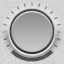
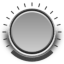
Now display bg with alpha

diff --git a/src/dsandgrains/ui.c b/src/dsandgrains/ui.c
@@ -1,0 +1,84 @@
+/*
+ * Copyright 2019 Denis Salem
+ *
+ * This file is part of DStudio.
+ *
+ * DStudio is free software: you can redistribute it and/or modify
+ * it under the terms of the GNU General Public License as published by
+ * the Free Software Foundation, either version 3 of the License, or
+ * (at your option) any later version.
+ *
+ * DStudio is distributed in the hope that it will be useful,
+ * but WITHOUT ANY WARRANTY; without even the implied warranty of
+ * MERCHANTABILITY or FITNESS FOR A PARTICULAR PURPOSE.  See the
+ * GNU General Public License for more details.
+ *
+ * You should have received a copy of the GNU General Public License
+ * along with DStudio. If not, see <http://www.gnu.org/licenses/>.
+*/
+
+#include "../extensions.h"
+#include "ui.h"
+
+void init_background(Background * background) {
+    GLuint * vertex_indexes = background->vertex_indexes;
+    DSTUDIO_SET_VERTEX_INDEXES
+        
+    VertexAttributes * vertexes_attributes = background->vertexes_attributes;
+    vertexes_attributes[0].x = -1.0f;
+    vertexes_attributes[0].y =  1.0f;
+    vertexes_attributes[1].x = -1.0f;
+    vertexes_attributes[1].y = -1.0f;
+    vertexes_attributes[2].x =  1.0f;
+    vertexes_attributes[2].y =  1.0f;
+    vertexes_attributes[3].x =  1.0f;
+    vertexes_attributes[3].y = -1.0f;
+    
+    DSTUDIO_SET_S_T_COORDINATES
+    
+    background->index_buffer_object = 0;
+    glGenBuffers(1, &background->index_buffer_object);
+    glBindBuffer(GL_ELEMENT_ARRAY_BUFFER, background->index_buffer_object);
+        glBufferData(GL_ELEMENT_ARRAY_BUFFER, 4 * sizeof(GLuint), vertex_indexes, GL_STATIC_DRAW);
+    glBindBuffer(GL_ELEMENT_ARRAY_BUFFER, 0);
+   
+    GLuint * vertex_buffer_object_p = &background->vertex_buffer_object;
+    glGenBuffers(1, vertex_buffer_object_p);
+    glBindBuffer(GL_ARRAY_BUFFER, *vertex_buffer_object_p);
+        glBufferData(GL_ARRAY_BUFFER, sizeof(VertexAttributes) * 4, vertexes_attributes, GL_STATIC_DRAW);
+    glBindBuffer(GL_ARRAY_BUFFER, 0);
+    
+    get_png_pixel("../assets/dsandgrains_background.png", &background->texture);
+    
+    glGenTextures(1, &background->texture_id);
+    glBindTexture(GL_TEXTURE_2D, background->texture_id);
+        glTexParameteri(GL_TEXTURE_2D, GL_TEXTURE_WRAP_S, GL_CLAMP_TO_EDGE);
+        glTexParameteri(GL_TEXTURE_2D, GL_TEXTURE_WRAP_T, GL_CLAMP_TO_EDGE);
+        glTexImage2D(GL_TEXTURE_2D, 0, GL_RGBA, DSANDGRAINS_VIEWPORT_WIDTH, DSANDGRAINS_VIEWPORT_HEIGHT, 0, GL_RGBA, GL_UNSIGNED_BYTE, background->texture);
+        glGenerateMipmap(GL_TEXTURE_2D);
+    glBindTexture(GL_TEXTURE_2D, 0);
+
+
+    glGenVertexArrays(1, &background->vertex_array_object);
+    glBindVertexArray(background->vertex_array_object);
+        glBindBuffer(GL_ARRAY_BUFFER, background->vertex_buffer_object);         
+            glVertexAttribPointer(0, 2, GL_FLOAT, GL_FALSE, 4 * sizeof(GLfloat), 0);
+            glEnableVertexAttribArray(0);
+            glVertexAttribPointer(1, 2, GL_FLOAT, GL_FALSE, 4 * sizeof(GLfloat), (GLvoid *)(2 * sizeof(GLfloat)));
+            glEnableVertexAttribArray(1);
+        glBindBuffer(GL_ARRAY_BUFFER, 0);
+    glBindVertexArray(0);
+}
+
+void render_background(Background * background, GLint program_id) {
+    glClear(GL_COLOR_BUFFER_BIT | GL_DEPTH_BUFFER_BIT);
+    glUseProgram(program_id);
+        glBindTexture(GL_TEXTURE_2D, background->texture_id);
+            glBindVertexArray(background->vertex_array_object);
+                glBindBuffer(GL_ELEMENT_ARRAY_BUFFER, background->index_buffer_object);
+                    glDrawElements(GL_TRIANGLE_STRIP, 4, GL_UNSIGNED_INT, (GLvoid *) 0);
+                glBindBuffer(GL_ELEMENT_ARRAY_BUFFER, 0);
+            glBindVertexArray(0);
+        glBindTexture(GL_TEXTURE_2D, 0);
+    glUseProgram(0);
+}

diff --git a/src/knobs.c b/src/knobs.c
@@ -34,10 +34,7 @@ void init_knobs(Knobs * knobs, int count, GLuint texture_width, GLuint texture_h
     knobs->image_base[3] = 255;
     
     GLuint * vertex_indexes = knobs->vertex_indexes;
-    vertex_indexes[0] = 0;
-    vertex_indexes[1] = 1;
-    vertex_indexes[2] = 2;
-    vertex_indexes[3] = 3;
+    DSTUDIO_SET_VERTEX_INDEXES
 }
 
 void free_knobs(Knobs * knobs) {
@@ -50,29 +47,19 @@ void init_knob(Knobs * knobs, int index, float width, float height, float x, flo
     VertexAttributes * vertexes_attributes = knobs->items[index].vertexes_attributes;
     GLuint * vertex_buffer_object_p = &knobs->items[index].vertex_buffer_object;
     
-    vertexes_attributes[0].x =  - (width / 640);
-    vertexes_attributes[0].y =  (height / 480);
+    vertexes_attributes[0].x =  - (width / 480);
+    vertexes_attributes[0].y =  (height / 240);
 
-    vertexes_attributes[1].x =  -(width  / 640);
-    vertexes_attributes[1].y =  -(height / 480);
+    vertexes_attributes[1].x =  -(width  / 480);
+    vertexes_attributes[1].y =  -(height / 240);
     
-    vertexes_attributes[2].x =  (width / 640);
-    vertexes_attributes[2].y =  (height/ 480);
+    vertexes_attributes[2].x =  (width / 480);
+    vertexes_attributes[2].y =  (height/ 240);
     
-    vertexes_attributes[3].x =  (width / 640);
-    vertexes_attributes[3].y = -(height/ 480); 
+    vertexes_attributes[3].x =  (width / 480);
+    vertexes_attributes[3].y = -(height/ 240); 
     
-    vertexes_attributes[0].s = 0.0f;
-    vertexes_attributes[0].t = 0.0f;
-    
-    vertexes_attributes[1].s = 0.0f;
-    vertexes_attributes[1].t = 1.0f;
-    
-    vertexes_attributes[2].s = 1.0f;
-    vertexes_attributes[2].t = 0.0f;
-    
-    vertexes_attributes[3].s = 1.0f;
-    vertexes_attributes[3].t = 1.0f;
+    DSTUDIO_SET_S_T_COORDINATES
     
     glGenBuffers(1, vertex_buffer_object_p);
     glBindBuffer(GL_ARRAY_BUFFER, *vertex_buffer_object_p);

diff --git a/src/main.c b/src/main.c
@@ -7,6 +7,7 @@
 
 #include "knobs.h"
 #include "ui.h"
+#include "dsandgrains/ui.h"
 
 int main() {
     if (!glfwInit()) {
@@ -17,7 +18,7 @@ int main() {
     glfwWindowHint(GLFW_CONTEXT_VERSION_MINOR, 3);
     glfwWindowHint(GLFW_OPENGL_PROFILE, GLFW_OPENGL_CORE_PROFILE);
     
-    GLFWwindow* window = glfwCreateWindow(640, 480, "Knob PoC", NULL, NULL);
+    GLFWwindow* window = glfwCreateWindow(480, 240, "Knob PoC", NULL, NULL);
     
     if (!window) {
             printf("!window\n");
@@ -35,6 +36,9 @@ int main() {
 
     GLchar * shader_buffer = NULL;
 
+    Background background;
+    init_background(&background);
+    
     Knobs test_knobs;
     init_knobs(&test_knobs, 1, 64, 64, "../assets/knob1_base.png", "../assets/knob1.png");
 
@@ -102,11 +106,16 @@ int main() {
         printf("%s\n", program_error_message);
     }
     #endif
-
+    
+    glBlendFunc(GL_SRC_ALPHA, GL_ONE_MINUS_SRC_ALPHA);
+    glEnable( GL_BLEND );
     while (!glfwWindowShouldClose(window)) {
         usleep(40000);
         
         glClear(GL_COLOR_BUFFER_BIT | GL_DEPTH_BUFFER_BIT);
+        
+        render_background(&background, program_id);
+        
         glUseProgram(program_id);
             glBindTexture(GL_TEXTURE_2D, test_knobs.texture_image_base_id);
                 glBindVertexArray(vertex_array_object);
@@ -116,12 +125,12 @@ int main() {
                 glBindVertexArray(0);
             glBindTexture(GL_TEXTURE_2D, 0);
         glUseProgram(0);
-
+        
         glfwSwapBuffers(window);
         glfwPollEvents();
     }
     
     glfwTerminate();
-    free_knobs(&test_knobs);
+    //free_knobs(&test_knobs);
     return 0;
 }

diff --git a/src/dsandgrains/ui.h b/src/dsandgrains/ui.h
@@ -1,0 +1,36 @@
+/*
+ * Copyright 2019 Denis Salem
+ *
+ * This file is part of DStudio.
+ *
+ * DStudio is free software: you can redistribute it and/or modify
+ * it under the terms of the GNU General Public License as published by
+ * the Free Software Foundation, either version 3 of the License, or
+ * (at your option) any later version.
+ *
+ * DStudio is distributed in the hope that it will be useful,
+ * but WITHOUT ANY WARRANTY; without even the implied warranty of
+ * MERCHANTABILITY or FITNESS FOR A PARTICULAR PURPOSE.  See the
+ * GNU General Public License for more details.
+ *
+ * You should have received a copy of the GNU General Public License
+ * along with DStudio. If not, see <http://www.gnu.org/licenses/>.
+*/
+
+#define DSANDGRAINS_VIEWPORT_WIDTH  480
+#define DSANDGRAINS_VIEWPORT_HEIGHT 240
+
+#include "../ui.h"
+
+typedef struct Background_t {
+    VertexAttributes    vertexes_attributes[4];
+    GLuint              vertex_indexes[6];
+    unsigned char *            texture;
+    GLuint              vertex_array_object;
+    GLuint              index_buffer_object;
+    GLuint              vertex_buffer_object;
+    GLuint              texture_id;
+} Background;
+
+void init_background(Background * background);
+void render_background(Background * background, GLint program_id);

diff --git a/src/ui.h b/src/ui.h
@@ -28,6 +28,22 @@
 #include <string.h>
 #include <stdlib.h>
 
+#define DSTUDIO_SET_S_T_COORDINATES \
+    vertexes_attributes[0].s = 0.0f; \
+    vertexes_attributes[0].t = 0.0f; \
+    vertexes_attributes[1].s = 0.0f; \
+    vertexes_attributes[1].t = 1.0f; \
+    vertexes_attributes[2].s = 1.0f; \
+    vertexes_attributes[2].t = 0.0f; \
+    vertexes_attributes[3].s = 1.0f; \
+    vertexes_attributes[3].t = 1.0f;
+    
+#define DSTUDIO_SET_VERTEX_INDEXES \
+    vertex_indexes[0] = 0; \
+    vertex_indexes[1] = 1; \
+    vertex_indexes[2] = 2; \
+    vertex_indexes[3] = 3;
+    
 typedef struct VertexAttributes_t {
     GLfloat x;
     GLfloat y;
